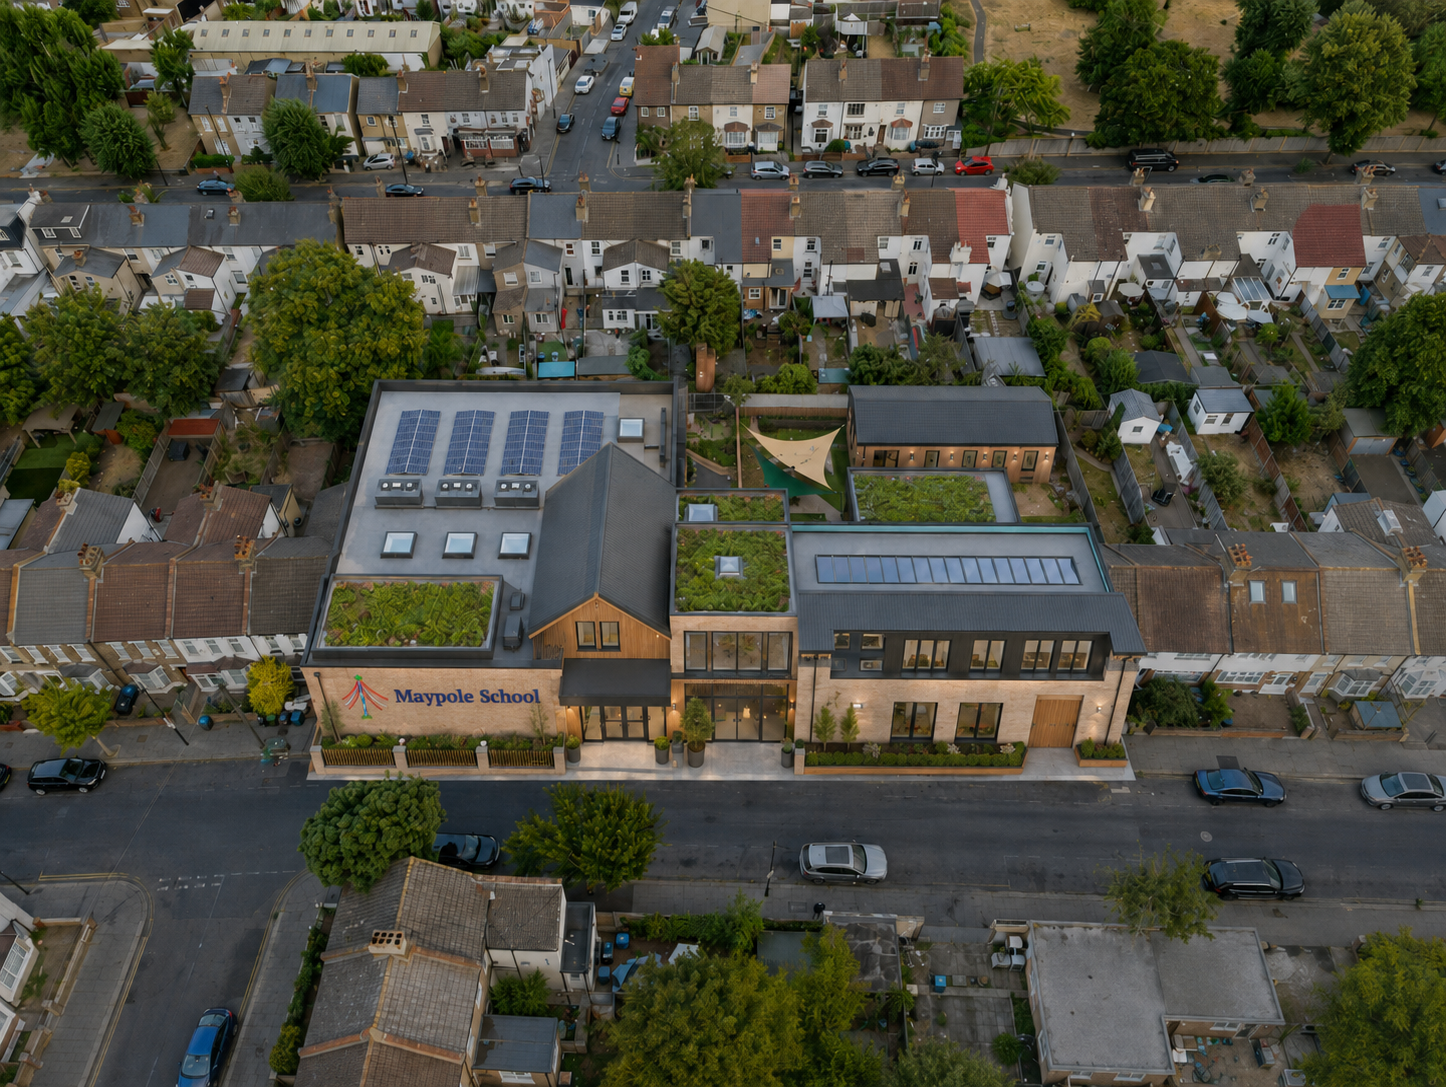
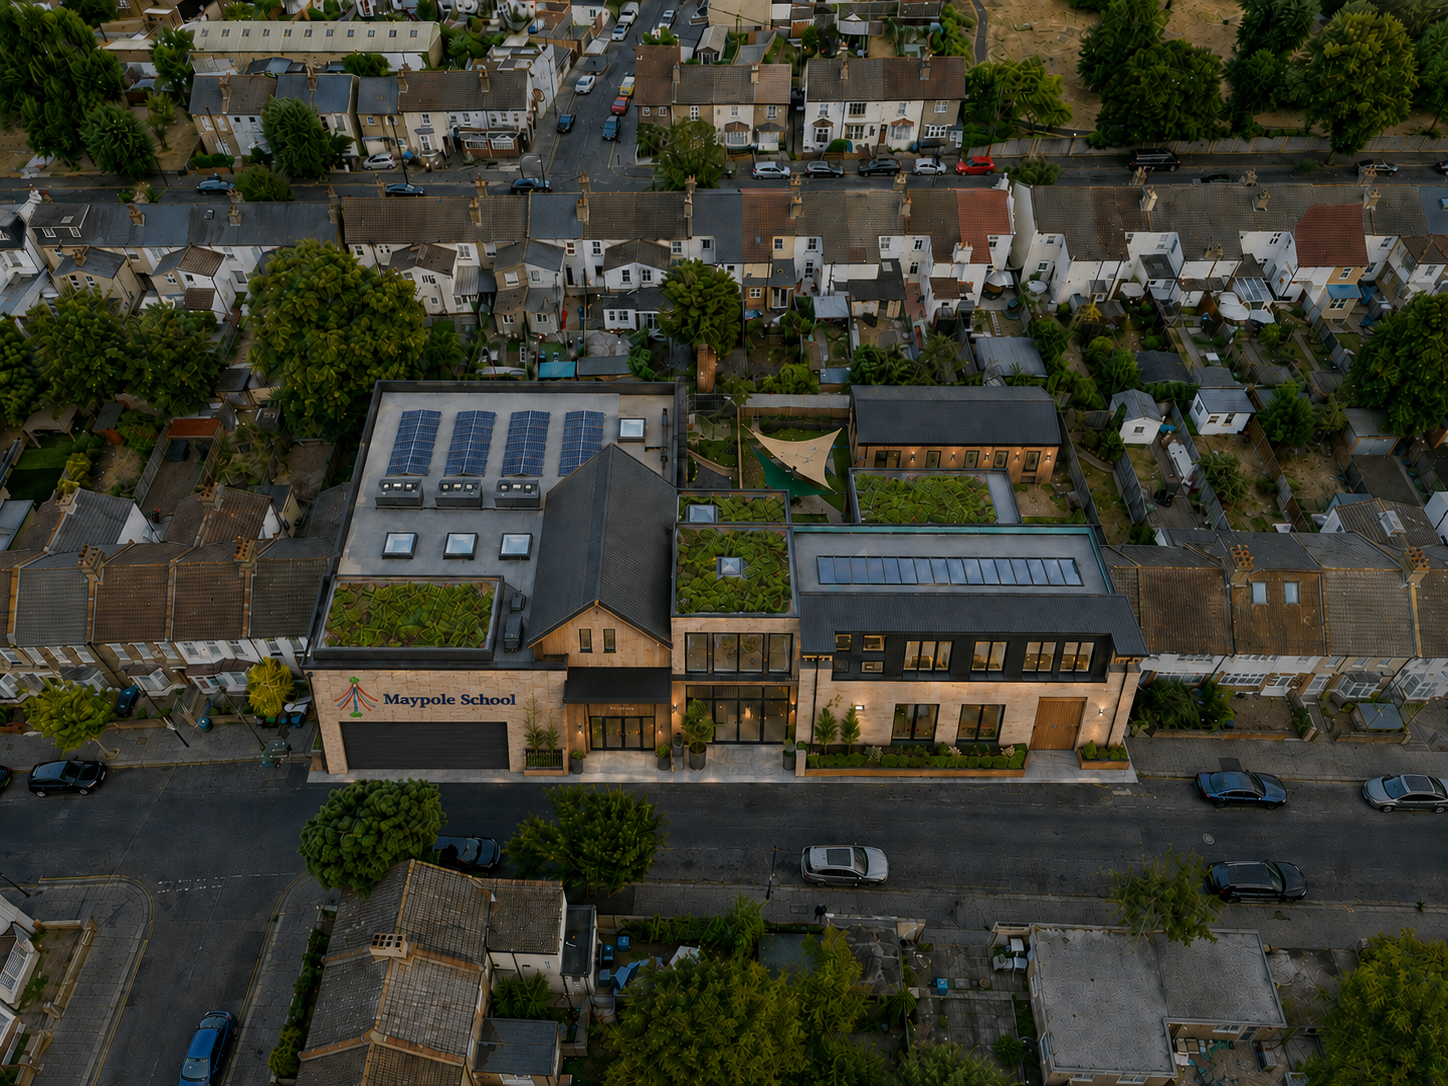
updates

diff --git a/properties/thorntonheath.html b/properties/thorntonheath.html
@@ -257,13 +257,13 @@
                 <div class="max-w-7xl mx-auto grid grid-cols-1 lg:grid-cols-2 gap-20 items-center">
                     <div class="reveal">
                         <h2 class="text-[#B08D57] text-[10px] tracking-[0.4em] uppercase font-bold mb-10">03 &mdash; One-to-One Classroom Model</h2>
-                        <h3 class="text-3xl md:text-5xl font-light mb-10 leading-tight">A room strategy for pupils who need individual space and minimal peer mixing.</h3>
+                        <h3 class="text-3xl md:text-5xl font-light mb-10 leading-tight">The existing property allows for a flexible layout to meet Maypole's requirements.</h3>
                         <div class="space-y-6 text-white/60 font-light leading-relaxed text-lg">
                             <p>
-                                Maypole's model requires a different type of school environment from a conventional classroom-led setting. The building can be reviewed around 30 + potential 1:1 classrooms, each supporting one pupil and one teacher in a calm, predictable space.
+                                We have not been provided with accurate floorplans to date, so the layout shown within this report is taken from 3D images and ordnance survey mapping systems. Please be advised that the layouts are not exact at this stage but will be subject to further surveys. We do know that the size and fenestration of the building do allow for a very similar, if not an identical layout to the one proposed in this report.
                             </p>
                             <p>
-                                The wider floorplate allows teaching rooms to sit alongside therapy, decompression, staff, welfare and support spaces, reducing the need for pupils to mix or move through busy shared areas during the day.
+                                We have taken note of your requirement for upwards of 30 1:1 classrooms and the images that we have created demonstarate what these could look like. Furthermore, there will be additional space for other areas/rooms you may require such as therapy areas, staff rooms, a kitchen, welfare and support spaces.
                             </p>
                         </div>
                         <div class="grid grid-cols-1 sm:grid-cols-2 gap-5 mt-10">
